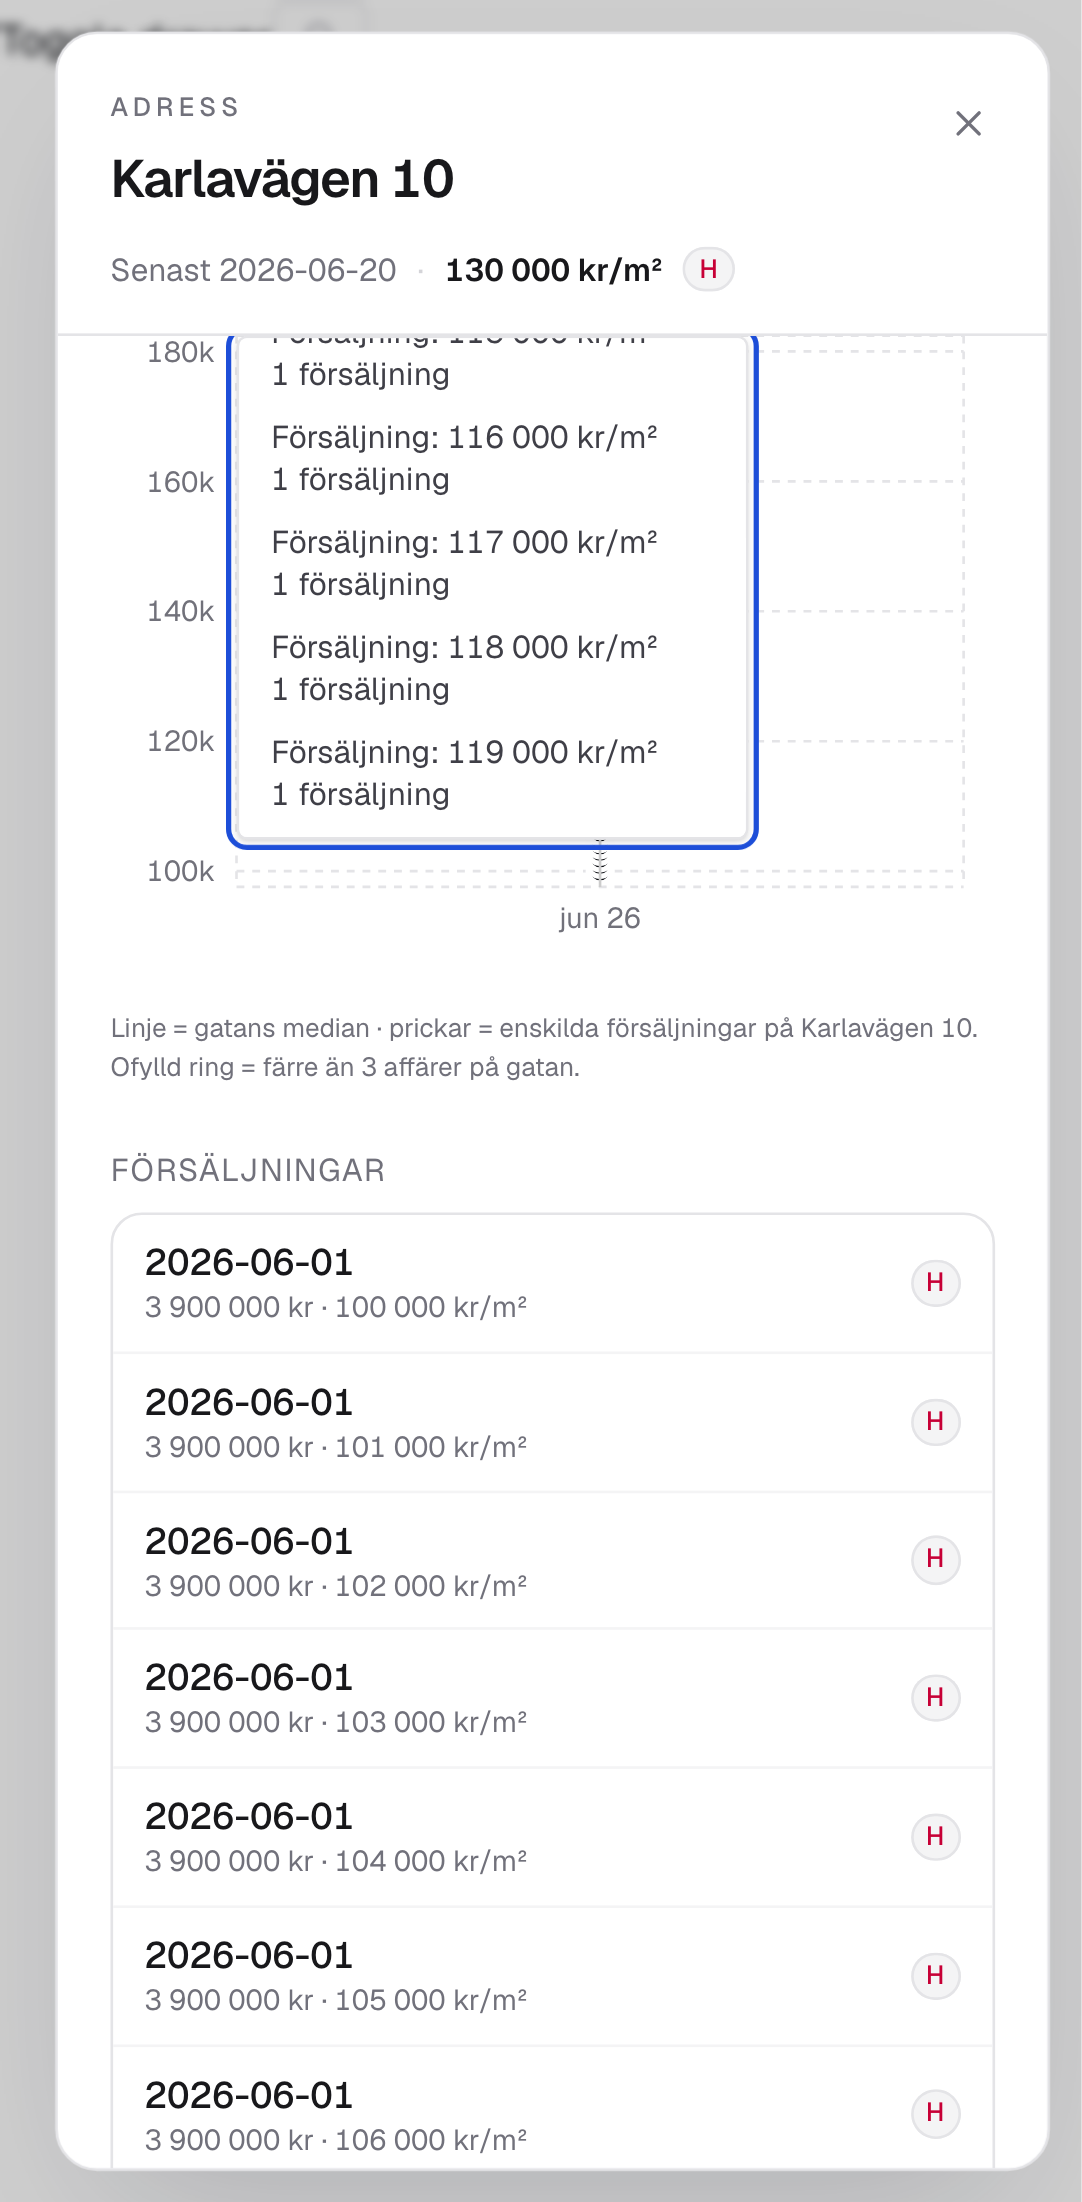
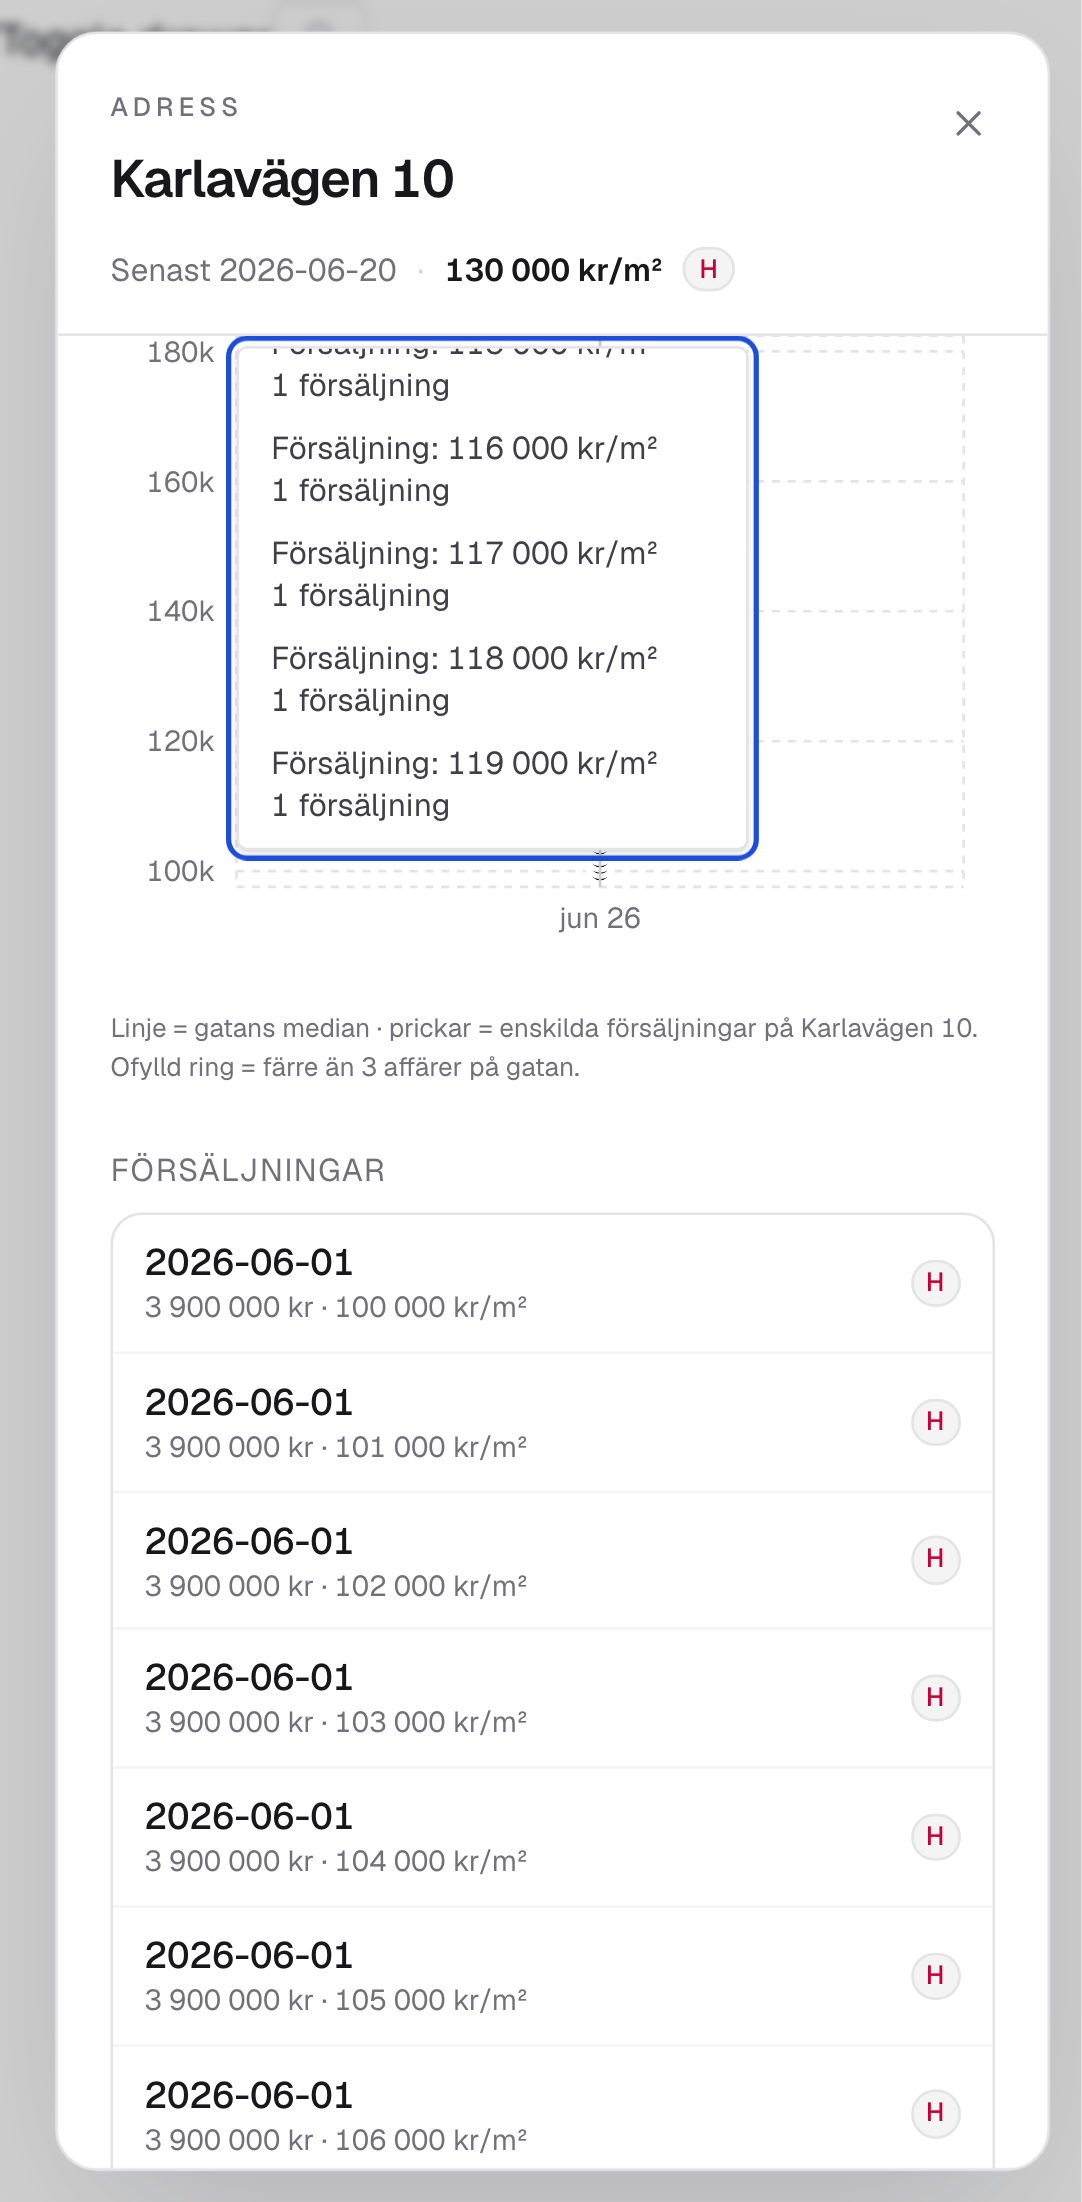
fix(ui): keep tooltips inside the visible drawer area (F12)
(cherry picked from commit a8789bd0f2932efd7dadb4692293ab4a8cb48e60)

Changed region(s): [[0.2135, 0.1544, 0.7015, 0.4015]]

diff --git a/docs/review-probes/drawer-short.spec.ts b/docs/review-probes/drawer-short.spec.ts
@@ -1,0 +1,110 @@
+import { test, expect } from '../e2e/fixtures';
+import fs from 'node:fs';
+test.beforeEach(async({consoleErrors})=>{expect(consoleErrors).toEqual([]);});
+test.afterEach(async({consoleErrors})=>{expect(consoleErrors).toEqual([]);});
+const base = {district:'ostermalm',street:'Karlavägen',house:'10',period:'12mo',granularity:'month',streetSummary:{count:777,medianPricePerSqm:117000,meanPricePerSqm:200000,earliest:'2026-05-01',latest:'2026-09-01'},streetSeries:[
+ {bucket:'2026-05-01',meanPricePerSqm:140000,medianPricePerSqm:145000,count:1},
+ {bucket:'2026-06-01',meanPricePerSqm:150000,medianPricePerSqm:155000,count:4},
+ {bucket:'2026-08-01',meanPricePerSqm:140000,medianPricePerSqm:145000,count:2},
+ {bucket:'2026-09-01',meanPricePerSqm:150000,medianPricePerSqm:155000,count:4}],addressSales:[
+ {soldAt:'2026-06-20',priceSek:3900000,pricePerSqmSek:130000,sources:['hemnet']},
+ {soldAt:'2026-06-03',priceSek:3600000,pricePerSqmSek:120000,sources:['booli']},
+ {soldAt:'2026-06-02',priceSek:3000000,pricePerSqmSek:100000,sources:['hemnet']}]};
+test('review drawer real geometry and tooltip containment', async({page},info)=>{
+ await page.route('**/api/address*',r=>r.fulfill({json:base}));
+ await page.goto('/drawer-review-fixture');
+ const dots=page.locator('.recharts-scatter-symbol path');
+ await expect(dots).toHaveCount(3);await page.waitForTimeout(1700);
+ const coords=await dots.evaluateAll(es=>es.map(e=>[Number(e.getAttribute('cx')),Number(e.getAttribute('cy'))]));
+ const xs=coords.map(c=>c[0]).sort((a,b)=>a-b);expect((xs[1]-xs[0])/(xs[2]-xs[0])).toBeCloseTo(1/18,5);
+ expect((await page.locator('.recharts-area-curve').getAttribute('d'))!.match(/M/g)).toHaveLength(2);
+ const street=page.locator('.recharts-area-dots circle');await expect(street).toHaveCount(4);
+ const bounds=[];
+ for(let i=0;i<4;i++){
+  await street.nth(i).hover({force:true});const tip=page.getByRole('tooltip');await expect(tip).toBeVisible();
+  await expect(tip).toContainText(base.streetSeries[i].count+' försäljning');
+  const t=(await tip.boundingBox())!;const d=(await page.getByRole('dialog',{name:'Karlavägen 10'}).boundingBox())!;
+  bounds.push({i,t,d});expect(t.x).toBeGreaterThanOrEqual(d.x);expect(t.x+t.width).toBeLessThanOrEqual(d.x+d.width);
+ }
+ for(let i=0;i<3;i++){await dots.nth(i).hover({force:true});await expect(page.getByRole('tooltip')).toContainText('1 försäljning');}
+ fs.writeFileSync('/tmp/d-f12-dense-drawer-'+info.project.name+'.json',JSON.stringify(bounds));
+ await page.screenshot({path:'/tmp/d-f12-dense-drawer-'+info.project.name+'.png',fullPage:true});
+});
+for (const height of [400, 320, 240]) for (const count of [2]) test(`review ${count} same-day sales fit at height ${height}`,async({page},info)=>{
+ await page.setViewportSize({width:1280,height});
+ const data={...base,streetSeries:[base.streetSeries[1]],addressSales:Array.from({length:count},(_,i)=>({...base.addressSales[0],soldAt:'2026-06-01',pricePerSqmSek:100000+i*1000}))};
+ await page.route('**/api/address*',r=>r.fulfill({json:data}));await page.goto('/drawer-review-fixture');
+ const dots=page.locator('.recharts-scatter-symbol path');await expect(dots).toHaveCount(count);await page.waitForTimeout(1700);
+ await dots.first().hover({force:true});const tip=page.getByRole('tooltip');await expect(tip).toBeVisible();
+ await expect(tip).toContainText(String(99+count));const box=(await tip.boundingBox())!;
+ fs.writeFileSync('/tmp/d-f12-dense-sameday-'+info.project.name+'.json',JSON.stringify({box,viewport:page.viewportSize()}));
+ await page.screenshot({path:'/tmp/d-f12-dense-sameday-'+info.project.name+'.png',fullPage:true});
+ const panel=(await page.getByRole('dialog').boundingBox())!;
+ const clip=await tip.evaluate(e=>{
+   let p=e.parentElement;
+   while(p && !/auto|scroll/.test(getComputedStyle(p).overflowY)) p=p.parentElement;
+   return p!.getBoundingClientRect().toJSON();
+ });
+ expect(box.y).toBeGreaterThanOrEqual(clip.y);
+ expect(box.y+box.height).toBeLessThanOrEqual(clip.y+clip.height);
+ expect(box.y).toBeGreaterThanOrEqual(panel.y);
+ expect(box.y+box.height).toBeLessThanOrEqual(Math.min(page.viewportSize()!.height,panel.y+panel.height));
+ await tip.hover({timeout:3000});
+ await page.mouse.wheel(0,1200);
+ await expect.poll(()=>tip.evaluate(e=>e.scrollTop)).toBeGreaterThan(0);
+ await expect(tip).toContainText(String(99+count));
+ await tip.click({position:{x:8,y:8}});
+ await expect(tip).toBeFocused();
+ await page.keyboard.press('Home');
+ await expect.poll(()=>tip.evaluate(e=>e.scrollTop)).toBe(0);
+ await page.keyboard.press('End');
+ await expect.poll(()=>tip.evaluate(e=>Math.abs(e.scrollHeight-e.clientHeight-e.scrollTop))).toBeLessThan(2);
+ const last=await tip.locator('div').last().boundingBox();
+ const current=(await tip.boundingBox())!;
+ expect(last!.y+last!.height).toBeLessThanOrEqual(current.y+current.height);
+ if (info.project.name === 'mobile') {
+   await page.keyboard.press('Home');
+   await expect.poll(()=>tip.evaluate(e=>e.scrollTop)).toBe(0);
+   const session=await page.context().newCDPSession(page);
+   const touchBox=(await tip.boundingBox())!;
+   const x=touchBox.x+touchBox.width/2, y=touchBox.y+touchBox.height-20;
+   await session.send('Input.dispatchTouchEvent',{type:'touchStart',touchPoints:[{x,y}]});
+   for(let step=1;step<=8;step++) {
+     await session.send('Input.dispatchTouchEvent',{type:'touchMove',touchPoints:[{x,y:y-step*12}]});
+     await page.waitForTimeout(20);
+   }
+   await session.send('Input.dispatchTouchEvent',{type:'touchEnd',touchPoints:[]});
+   await expect.poll(()=>tip.evaluate(e=>e.scrollTop)).toBeGreaterThan(0);
+   await expect(tip).toContainText(String(99+count));
+   await session.detach();
+   await tip.focus();
+   await page.keyboard.press('End');
+   await expect.poll(()=>tip.evaluate(e=>Math.abs(e.scrollHeight-e.clientHeight-e.scrollTop))).toBeLessThan(2);
+ }
+ await page.screenshot({path:`../docs/screens/F12-short-${height}-${info.project.name}.png`,fullPage:true});
+});
+
+test('scroll access follows a live viewport resize',async({page})=>{
+ await page.setViewportSize({width:1280,height:720});
+ // Other dates leave enough drawer content to keep the hovered point inside the resized viewport.
+ const data={...base,streetSeries:[base.streetSeries[1]],addressSales:[
+  ...Array.from({length:2},(_,i)=>({...base.addressSales[0],soldAt:'2026-06-01',pricePerSqmSek:100000+i*1000})),
+  ...Array.from({length:4},(_,i)=>({...base.addressSales[0],soldAt:`2026-05-0${i+1}`})),
+ ]};
+ await page.route('**/api/address*',r=>r.fulfill({json:data}));
+ await page.goto('/drawer-review-fixture');
+ const dots=page.locator('.recharts-scatter-symbol path');
+ await expect(dots).toHaveCount(6);await page.waitForTimeout(1700);
+ await page.getByRole('dialog').hover();await page.mouse.wheel(0,250);
+ await expect.poll(async()=> (await dots.first().boundingBox())!.y).toBeLessThan(390);
+ await dots.first().hover({force:true});
+ const tip=page.getByRole('tooltip');await expect(tip).toBeVisible();
+ expect(await tip.evaluate(e=>e.scrollHeight<=e.clientHeight)).toBe(true);
+ await page.setViewportSize({width:1280,height:400});
+ await tip.focus();
+ await expect.poll(()=>tip.evaluate(e=>e.scrollHeight>e.clientHeight)).toBe(true);
+ await tip.hover({timeout:3000});await page.mouse.wheel(0,400);
+ await expect.poll(()=>tip.evaluate(e=>e.scrollTop)).toBeGreaterThan(0);
+ await page.keyboard.press('End');
+ await expect.poll(()=>tip.evaluate(e=>Math.abs(e.scrollHeight-e.clientHeight-e.scrollTop))).toBeLessThan(2);
+});

diff --git a/web/src/components/map/DrawerTooltip.tsx b/web/src/components/map/DrawerTooltip.tsx
@@ -1,3 +1,4 @@
+import { useEffect, useRef, useState } from "react";
 import type { AddressResponse } from "@/lib/api-types";
 import { formatSales } from "../plural";
 
@@ -15,6 +16,45 @@ export function StreetDot({ cx, cy, payload }: {
 export function DrawerTooltip({ active, label, data }: {
   active?: boolean; label?: string | number; data: AddressResponse | null;
 }) {
+  const contentRef = useRef<HTMLDivElement>(null);
+  const [layout, setLayout] = useState<{ scrollable: boolean; offsetY: number; maxHeight?: number }>({ scrollable: false, offsetY: 0 });
+  useEffect(() => {
+    const content = contentRef.current;
+    if (!content) return;
+    let clip = content.parentElement;
+    while (clip && !/auto|scroll|hidden|clip/.test(getComputedStyle(clip).overflowY)) clip = clip.parentElement;
+    const measure = () => {
+      const viewportTop = window.visualViewport?.offsetTop ?? 0;
+      const viewportBottom = viewportTop + (window.visualViewport?.height ?? window.innerHeight);
+      const bounds = clip?.getBoundingClientRect();
+      const top = Math.max(viewportTop, bounds?.top ?? viewportTop) + 4;
+      const bottom = Math.min(viewportBottom, bounds?.bottom ?? viewportBottom) - 4;
+      const maxHeight = Math.max(0, bottom - top);
+      // The wrapper remains at its chart coordinate while this content follows the visible scroll area.
+      const originY = content.parentElement!.getBoundingClientRect().top + content.offsetTop;
+      const height = Math.min(content.getBoundingClientRect().height, maxHeight);
+      const offsetY = Math.max(top, Math.min(originY, bottom - height)) - originY;
+      const scrollable = content.scrollHeight > content.clientHeight;
+      setLayout((previous) => previous.offsetY === offsetY && previous.maxHeight === maxHeight && previous.scrollable === scrollable
+        ? previous : { scrollable, offsetY, maxHeight });
+    };
+    measure();
+    const observer = new ResizeObserver(measure);
+    observer.observe(content);
+    if (clip) observer.observe(clip);
+    window.addEventListener("scroll", measure, true);
+    window.addEventListener("resize", measure);
+    window.visualViewport?.addEventListener("resize", measure);
+    window.visualViewport?.addEventListener("scroll", measure);
+    return () => {
+      observer.disconnect();
+      window.removeEventListener("scroll", measure, true);
+      window.removeEventListener("resize", measure);
+      window.visualViewport?.removeEventListener("resize", measure);
+      window.visualViewport?.removeEventListener("scroll", measure);
+    };
+  }, [active, label, data]);
+
   const t = Number(label);
   if (!active || !data || label == null || !Number.isFinite(t)) return null;
   const date = new Date(t).toISOString().slice(0, 10);
@@ -22,8 +62,12 @@ export function DrawerTooltip({ active, label, data }: {
   const sales = data.addressSales.filter((sale) => sale.soldAt === date);
   if (!street && sales.length === 0) return null;
   return (
-    <div role="tooltip" tabIndex={0} aria-label={`Försäljningar ${date}`}
-      style={{ pointerEvents: sales.length > 2 ? "auto" : undefined }}
+    <div ref={contentRef} role="tooltip" tabIndex={0} aria-label={`Försäljningar ${date}`}
+      style={{
+        pointerEvents: layout.scrollable ? "auto" : undefined,
+        transform: layout.offsetY ? `translateY(${layout.offsetY}px)` : undefined,
+        maxHeight: layout.maxHeight == null ? undefined : `min(192px,40dvh,${layout.maxHeight}px)`,
+      }}
       onMouseMove={(event) => event.stopPropagation()}
       onTouchMove={(event) => event.stopPropagation()}
       onKeyDown={(event) => { if (event.key !== "Escape" && event.key !== "Tab") event.stopPropagation(); }}

diff --git a/web/src/components/map/DrawerTooltip.keyboard.test.ts b/web/src/components/map/DrawerTooltip.keyboard.test.ts
@@ -1,13 +1,16 @@
 // @vitest-environment jsdom
 import { act, createElement } from "react";
 import { createRoot } from "react-dom/client";
-import { expect, it } from "vitest";
+import { afterEach, expect, it, vi } from "vitest";
 import type { AddressResponse } from "@/lib/api-types";
 import { DrawerTooltip } from "./DrawerTooltip";
 
 (globalThis as { IS_REACT_ACT_ENVIRONMENT?: boolean }).IS_REACT_ACT_ENVIRONMENT = true;
 
+afterEach(() => vi.unstubAllGlobals());
+
 it("lets keyboard users scroll dense same-day records without changing the active chart date (F12)", async () => {
+  vi.stubGlobal("ResizeObserver", class { observe() {} disconnect() {} });
   const data: AddressResponse = {
     district: "ostermalm", street: "Karlavägen", house: "10", period: "12mo", granularity: "month",
     streetSeries: [],

diff --git a/docs/review-probes/drawer-dense.spec.ts b/docs/review-probes/drawer-dense.spec.ts
@@ -1,5 +1,7 @@
 import { test, expect } from '../e2e/fixtures';
 import fs from 'node:fs';
+test.beforeEach(async({consoleErrors})=>{expect(consoleErrors).toEqual([]);});
+test.afterEach(async({consoleErrors})=>{expect(consoleErrors).toEqual([]);});
 const base = {district:'ostermalm',street:'Karlavägen',house:'10',period:'12mo',granularity:'month',streetSummary:{count:777,medianPricePerSqm:117000,meanPricePerSqm:200000,earliest:'2026-05-01',latest:'2026-09-01'},streetSeries:[
  {bucket:'2026-05-01',meanPricePerSqm:140000,medianPricePerSqm:145000,count:1},
  {bucket:'2026-06-01',meanPricePerSqm:150000,medianPricePerSqm:155000,count:4},

diff --git a/docs/review-probes/drawer-chart-review.md b/docs/review-probes/drawer-chart-review.md
@@ -45,7 +45,8 @@ test("capture elapsed time and missing street bucket in the drawer", async ({ pa
   await expect(streetDots).toHaveCount(4);
   await expect(streetDots.first()).toHaveAttribute("fill", "white");
   await expect(streetDots.first()).toHaveAttribute("r", "4");
-  await expect(streetDots.nth(1)).toHaveAttribute("fill", "#1d4ed8");
+  const lineColor = (await page.locator(".recharts-area-curve").getAttribute("stroke"))!;
+  await expect(streetDots.nth(1)).toHaveAttribute("fill", lineColor);
   await streetDots.first().hover({ force: true });
   await expect(page.getByRole("tooltip")).toContainText("1 försäljning · få affärer");
   await expect(page.getByRole("tooltip")).toBeVisible();
@@ -65,3 +66,11 @@ test("capture elapsed time and missing street bucket in the drawer", async ({ pa
 Copy `docs/review-probes/drawer-dense.spec.ts` to `web/screens/f12-dense-review.spec.ts` with the same temporary page above. Run with the isolated database and port as above. This checks 8, 20 and the API maximum of 200 same-day observations, viewport/drawer containment, wheel and keyboard access to the last record, and actual mobile touch scrolling. Ordinary date-by-date hover is also retained. Remove the temporary page/spec before the full gate.
 
 Before the correction, the 20-record geometry probe failed on both desktop and mobile (`/tmp/d-f12-dense-red.log`). The permanent keyboard regression failed because the tooltip could not receive focus (`/tmp/d-f12-dense-keyboard-red.log`). The corrected tooltip stays at the chart top, constrains its height, allows scrolling of dense records, and keeps scroll keys from changing the active chart date. Small tooltips remain transparent to pointer hit testing. Browser results and visual captures are in `/tmp/d-f12-dense-final-probe.log` and `docs/screens/F12-dense-*.png`.
+
+## Short viewports and resize
+
+The first dense correction still used a record-count heuristic for pointer access. At1280×400, even two sales plus the street bucket overflow; the old tooltip could not receive mouse input (`/tmp/d-f12-short-red.log`, trace shows the SVG intercepting hover). Scrolling the drawer also clipped the chart-anchored tooltip behind its header (`/tmp/d-f12-short-clipping-red.log`). The follow-up measures actual overflow and keeps tooltip content within the visible drawer scroll area. Resize and scroll observers update its bounds; all records remain available.
+
+Use the same temporary page with `drawer-short.spec.ts` copied to `web/screens/f12-short-review.spec.ts`. It tests two records at viewport heights400/320/240 with real wheel, keyboard and touch scrolling, plus a live resize while the hovered point remains inside the viewport. The separate dense probe retains8/20/200-record and ordinary hover coverage. Final browser logs: `/tmp/d-f12-short-green2.log`, `/tmp/d-f12-short-final-green.log`.
+
+The final combined dense/short/resize run passed all18 browser cases with zero console/page errors (`/tmp/d-f12-observed-green.log`). The focused real-chart and keyboard unit suites passed11 cases (`/tmp/d-f12-short-unit.log`). The live-resize fixture keeps the pointer inside the resized viewport, so normal hover dismissal does not invalidate the resize check.
